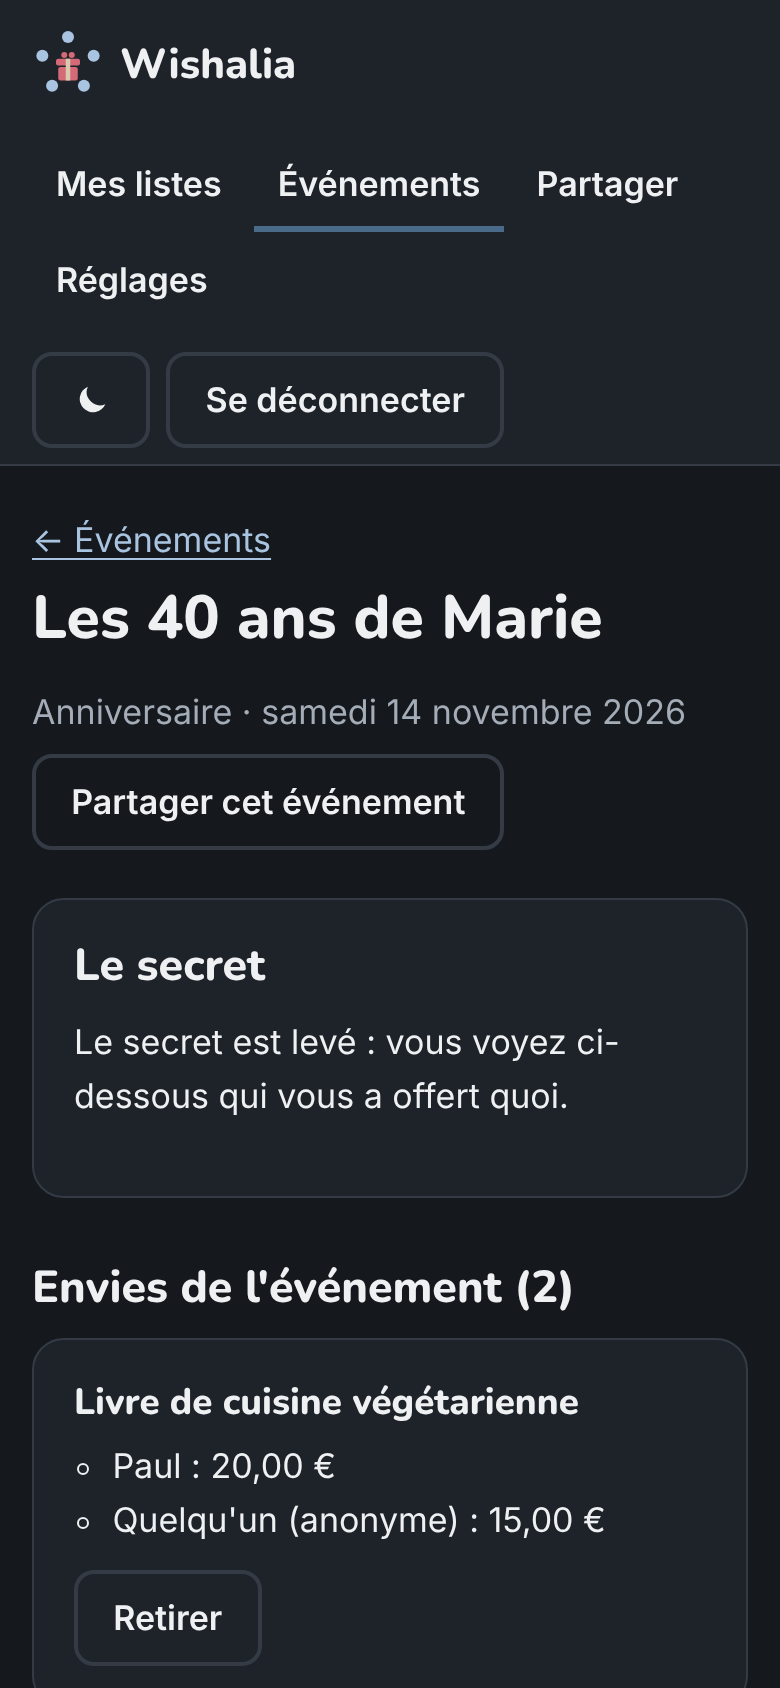
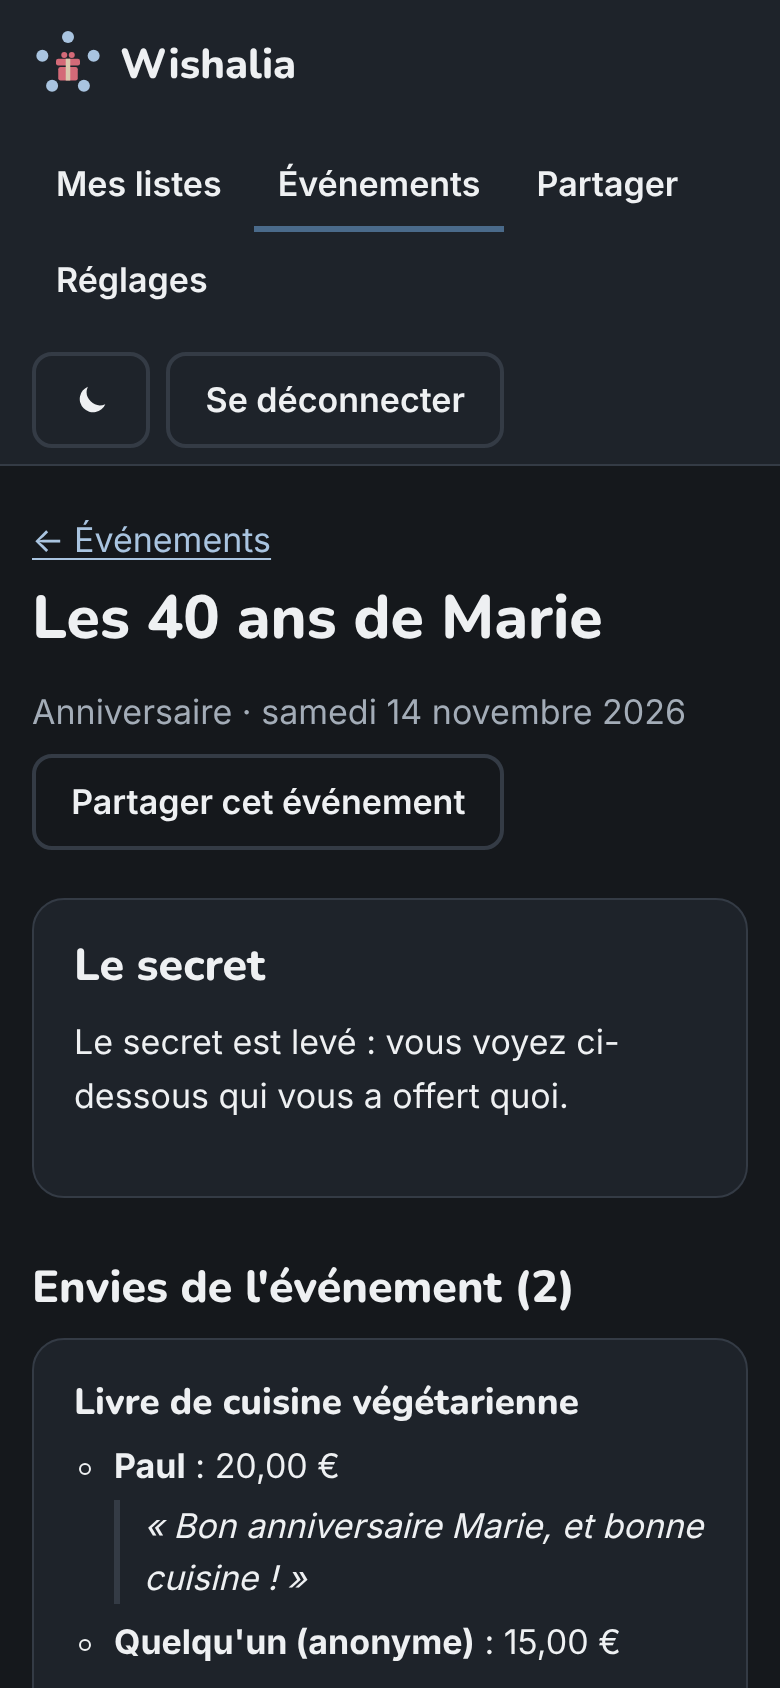
Show the owner the guests' words, and who gave what outside events
Claude-Session: https://claude.ai/code/session_01RHrAN1oDTApYYjwNuZHKXv

Changed region(s): [[0.0923, 0.8626, 0.8923, 0.9858], [0.6462, 0.955, 0.8, 0.9858]]

diff --git a/apps/web-app/src/routes/routes.test.ts b/apps/web-app/src/routes/routes.test.ts
@@ -248,8 +248,43 @@ describe("a list page", () => {
       list: list({ theme: "christmas" }),
       items: [{ id: ITEM }],
       lists: [list({ theme: "christmas" })],
+      gifts: {},
     });
     expect(event.locals.listTheme).toBe("christmas");
+  });
+
+  it("says who gave what outside events, only where the secret is lifted", async () => {
+    const RECEIVED = "9b6f8a4e-6a52-4a6c-9a39-6f4f3c0b9a11";
+    const gift = { id: 1, type: "reserved", at: "", actorId: null };
+    const api = fakeApi({
+      "GET /manage/lists": () => json([list({ revealMode: "received", secretLifted: false })]),
+      [`GET /manage/lists/${LIST}/items`]: () =>
+        json([
+          { id: ITEM, status: "open" },
+          { id: RECEIVED, status: "received" },
+        ]),
+      [`GET /manage/items/${RECEIVED}/history`]: () =>
+        json([
+          { ...gift, payload: { contributionId: "a", eventId: null, name: "Paul", message: "Merci !" } },
+        ]),
+    });
+    const { value } = (await run(listPage, fakeEvent({ params: { id: LIST } }).event)) as {
+      value: { gifts: Record<string, unknown> };
+    };
+    expect(value.gifts).toEqual({
+      [RECEIVED]: [{ name: "Paul", amountCents: null, units: null, message: "Merci !" }],
+    });
+    // The open item's history is never asked for: its secret holds
+    expect(api.calls.map((call) => call.path)).not.toContain(`/manage/items/${ITEM}/history`);
+
+    // A list whose secret the owner lifted: every item
+    const lifted = fakeApi({
+      "GET /manage/lists": () => json([list({ revealMode: "manual", secretLifted: true })]),
+      [`GET /manage/lists/${LIST}/items`]: () => json([{ id: ITEM, status: "open" }]),
+      [`GET /manage/items/${ITEM}/history`]: () => json([]),
+    });
+    await run(listPage, fakeEvent({ params: { id: LIST } }).event);
+    expect(lifted.calls.map((call) => call.path)).toContain(`/manage/items/${ITEM}/history`);
   });
 
   it("answers 404 for someone else's list or a wrong address", async () => {

diff --git a/apps/web-app/src/routes/(app)/evenements/[id]/+page.svelte b/apps/web-app/src/routes/(app)/evenements/[id]/+page.svelte
@@ -1,11 +1,11 @@
 <script lang="ts">
+  import Gifts from "#lib/Gifts.svelte";
   import { enhance } from "$app/forms";
   import { resolve } from "$app/paths";
   import { cents, formatAmount } from "@wishalia/domain";
 
   import EventFields from "#lib/EventFields.svelte";
   import { eventKindLabel, formatAvailable, formatDay } from "#lib/format.ts";
-  import type { Gift } from "#lib/types.ts";
 
   import type { PageProps } from "./$types";
 
@@ -26,16 +26,6 @@
   const typedValues = $derived(
     form?.update && "kind" in form.update ? (form.update as unknown as Values) : (event as Values),
   );
-
-  const describe = (gift: Gift) => {
-    const what =
-      gift.amountCents !== null
-        ? formatAmount(cents(gift.amountCents))
-        : gift.units !== null && gift.units > 1
-          ? `${gift.units} exemplaires`
-          : "l'a offert";
-    return `${gift.name ?? "Quelqu'un (anonyme)"} : ${what}`;
-  };
 
   const errors: Record<string, string> = {
     too_early: "Il est encore trop tôt pour lever le secret.",
@@ -111,15 +101,7 @@
             {#if item.priceCents !== null}<p class="muted meta">
                 {formatAmount(cents(item.priceCents))}
               </p>{/if}
-            {#if gifts}
-              {#if gifts.length === 0}
-                <p class="muted meta">Personne ne l'a offert pour cet événement.</p>
-              {:else}
-                <ul class="gifts">
-                  {#each gifts as gift, index (index)}<li>{describe(gift)}</li>{/each}
-                </ul>
-              {/if}
-            {/if}
+            {#if gifts}<Gifts {gifts} none="Personne ne l'a offert pour cet événement." />{/if}
           </div>
           <form method="POST" action="?/removeItem" use:enhance>
             <input type="hidden" name="itemId" value={item.id} />
@@ -242,10 +224,6 @@
   }
   .meta {
     margin: 0.25rem 0 0;
-  }
-  .gifts {
-    margin: 0.5rem 0 0;
-    padding-left: 1.2rem;
   }
   .settings {
     margin-top: 2rem;

diff --git a/apps/api/src/routes/public/public.test.ts b/apps/api/src/routes/public/public.test.ts
@@ -245,7 +245,7 @@ describe("contributions through a list link", () => {
 
   it("takes a contribution without an event: a list is not always tied to one", async () => {
     const made = await guest(listLink.body.token, "POST", `/items/${lonely}/contributions`, {
-      payload: { guestName: "Parrain" },
+      payload: { guestName: "Parrain", message: "Bon appétit" },
     });
     expect(made.status).toBe(201);
     expect(made.body.contribution.eventId).toBeNull();
@@ -365,6 +365,7 @@ describe("anti-spoil on the public view", () => {
     expect(before.items.find((entry: { id: string }) => entry.id === lonely).funding).toBeNull();
     const sealed = (await manage(owner, "GET", `/items/${lonely}/history`)).body as { type: string }[];
     expect(sealed.map((entry) => entry.type)).not.toContain("reserved");
+    expect(JSON.stringify(sealed)).not.toContain("Bon appétit");
 
     expect((await manage(owner, "PATCH", `/items/${lonely}`, { status: "received" })).status).toBe(200);
     const after = (await guest(listLink.body.token, "GET", "/view", { cookie: owner })).body;
@@ -373,9 +374,13 @@ describe("anti-spoil on the public view", () => {
     });
     const lifted = (await manage(owner, "GET", `/items/${lonely}/history`)).body as {
       type: string;
-      payload: { name?: string };
+      payload: { name?: string; message?: string | null };
     }[];
-    expect(lifted.find((entry) => entry.type === "reserved")?.payload.name).toBe("Parrain");
+    // The guest's word reaches the owner with the name, once the secret is lifted
+    expect(lifted.find((entry) => entry.type === "reserved")?.payload).toMatchObject({
+      name: "Parrain",
+      message: "Bon appétit",
+    });
     const late = await guest(listLink.body.token, "DELETE", `/contributions/${parrainKey.id}`, {
       headers: { "x-withdraw-key": parrainKey.key },
     });

diff --git a/apps/web-app/src/lib/server/events.ts b/apps/web-app/src/lib/server/events.ts
@@ -42,11 +42,11 @@ export async function readEventForm(event: FormEvent, key: "create" | "update") 
 }
 
 /**
- * Who gave what to an item for one event, from its history: the contributions and reservations
+ * Who gave what to an item for one event (or for none: null), from its history: the contributions and reservations
  * of that event, without the withdrawn ones. The API only gives these entries once the secret of
  * the event is lifted (anti-spoil): before, the list is empty.
  */
-export function giftsFor(history: readonly HistoryEntry[], eventId: string): Gift[] {
+export function giftsFor(history: readonly HistoryEntry[], eventId: string | null): Gift[] {
   const withdrawn = new Set(
     history
       .filter((entry) => entry.type === "contribution_withdrawn")
@@ -56,12 +56,13 @@ export function giftsFor(history: readonly HistoryEntry[], eventId: string): Gif
     .filter(
       (entry) =>
         (entry.type === "contribution_added" || entry.type === "reserved") &&
-        entry.payload.eventId === eventId &&
+        (entry.payload.eventId ?? null) === eventId &&
         !withdrawn.has(entry.payload.contributionId),
     )
     .map((entry) => ({
       name: typeof entry.payload.name === "string" ? entry.payload.name : null,
       amountCents: typeof entry.payload.amountCents === "number" ? entry.payload.amountCents : null,
       units: typeof entry.payload.units === "number" ? entry.payload.units : null,
+      message: typeof entry.payload.message === "string" ? entry.payload.message : null,
     }));
 }

diff --git a/apps/web-app/src/routes/(app)/listes/[id]/+page.server.ts b/apps/web-app/src/routes/(app)/listes/[id]/+page.server.ts
@@ -3,7 +3,8 @@ import { error } from "@sveltejs/kit";
 import { ApiError, apiJson } from "#lib/server/api.ts";
 import { editItem, quickAdd, setItemStatus } from "#lib/server/items.ts";
 import { archiveList, revealList, saveListSettings } from "#lib/server/lists.ts";
-import type { Item, List } from "#lib/types.ts";
+import { giftsFor } from "#lib/server/events.ts";
+import type { Gift, HistoryEntry, Item, List } from "#lib/types.ts";
 
 import type { Actions, PageServerLoad } from "./$types";
 
@@ -29,7 +30,18 @@ export const load: PageServerLoad = async (event) => {
   event.locals.listTheme = list.theme;
   // The lists an item can move to
   const others = lists.filter((candidate) => !candidate.archivedAt);
-  return { list, items, lists: others };
+
+  // Who gave what outside any event, where its secret is lifted: the whole list once the owner
+  // lifted it, or each received item (the default). The API gives nothing before (anti-spoil).
+  const lifted = items.filter((item) =>
+    list.revealMode === "manual" ? list.secretLifted : item.status === "received",
+  );
+  const histories = await Promise.all(
+    lifted.map((item) => apiJson<HistoryEntry[]>(event, `/manage/items/${item.id}/history`)),
+  );
+  const gifts: Record<string, Gift[]> = {};
+  lifted.forEach((item, index) => (gifts[item.id] = giftsFor(histories[index] ?? [], null)));
+  return { list, items, lists: others, gifts };
 };
 
 export const actions: Actions = {

diff --git a/apps/web-app/src/lib/server/events.test.ts b/apps/web-app/src/lib/server/events.test.ts
@@ -52,6 +52,7 @@ describe("giftsFor", () => {
             eventId: "e",
             amountCents: 2000,
             name: "Marie",
+            message: "Joyeux Noël !",
           }),
           entry("reserved", { contributionId: "b", eventId: "e", units: 2, name: null }),
           entry("contribution_added", {
@@ -66,9 +67,28 @@ describe("giftsFor", () => {
         "e",
       ),
     ).toEqual([
-      { name: "Marie", amountCents: 2000, units: null },
-      { name: null, amountCents: null, units: 2 },
+      { name: "Marie", amountCents: 2000, units: null, message: "Joyeux Noël !" },
+      { name: null, amountCents: null, units: 2, message: null },
     ]);
+  });
+
+  it("keeps the gifts made without an event apart", () => {
+    const history = [
+      entry("reserved", {
+        contributionId: "a",
+        eventId: null,
+        units: null,
+        name: "Paul",
+        message: "Bon appétit",
+      }),
+      entry("reserved", { contributionId: "b", units: 1, name: "Jo" }),
+      entry("reserved", { contributionId: "c", eventId: "e", name: "Léo" }),
+    ];
+    expect(giftsFor(history, null).map((gift) => [gift.name, gift.message])).toEqual([
+      ["Paul", "Bon appétit"],
+      ["Jo", null],
+    ]);
+    expect(giftsFor(history, "e").map((gift) => gift.name)).toEqual(["Léo"]);
   });
 });
 

diff --git a/apps/web-app/src/lib/Gifts.svelte b/apps/web-app/src/lib/Gifts.svelte
@@ -1,0 +1,49 @@
+<script lang="ts">
+  import { cents, formatAmount } from "@wishalia/domain";
+
+  import type { Gift } from "./types.ts";
+
+  /** Who gave what, and the words they left: only ever given once the secret is lifted. */
+  let { gifts, none }: { gifts: Gift[]; none: string } = $props();
+
+  const what = (gift: Gift) =>
+    gift.amountCents !== null
+      ? formatAmount(cents(gift.amountCents))
+      : gift.units !== null && gift.units > 1
+        ? `${gift.units} exemplaires`
+        : "l'a offert";
+</script>
+
+{#if gifts.length === 0}
+  <p class="muted none">{none}</p>
+{:else}
+  <ul class="gifts">
+    {#each gifts as gift, index (index)}
+      <li>
+        <span><strong>{gift.name ?? "Quelqu'un (anonyme)"}</strong> : {what(gift)}</span>
+        {#if gift.message}<blockquote>« {gift.message} »</blockquote>{/if}
+      </li>
+    {/each}
+  </ul>
+{/if}
+
+<style>
+  .none {
+    margin: 0.25rem 0 0;
+  }
+  .gifts {
+    margin: 0.5rem 0 0;
+    padding-left: 1.25rem;
+  }
+  li + li {
+    margin-top: 0.35rem;
+  }
+  blockquote {
+    margin: 0.2rem 0 0;
+    padding-left: 0.75rem;
+    border-left: 3px solid var(--border);
+    font-style: italic;
+    white-space: pre-line;
+    overflow-wrap: anywhere;
+  }
+</style>

diff --git a/apps/web-app/src/routes/(app)/listes/[id]/+page.svelte b/apps/web-app/src/routes/(app)/listes/[id]/+page.svelte
@@ -3,6 +3,7 @@
   import { resolve } from "$app/paths";
   import { cents, formatAmount } from "@wishalia/domain";
 
+  import Gifts from "#lib/Gifts.svelte";
   import ItemEditor from "#lib/ItemEditor.svelte";
   import ListSettings from "#lib/ListSettings.svelte";
   import QuickAdd from "#lib/QuickAdd.svelte";
@@ -85,6 +86,7 @@
               {/if}
             </p>
             {#if item.notes}<p class="notes">{item.notes}</p>{/if}
+            {#if data.gifts[item.id]?.length}<Gifts gifts={data.gifts[item.id] ?? []} none="" />{/if}
           </div>
           <div class="actions">
             <form method="POST" action="?/status" use:enhance>
@@ -122,6 +124,12 @@
           <div class="text">
             <h3>{item.title}</h3>
             <p class="muted meta">{item.status === "received" ? "Reçu" : "Archivé"}</p>
+            {#if data.gifts[item.id]}
+              <Gifts
+                gifts={data.gifts[item.id] ?? []}
+                none="Personne ne l'a offert en dehors des événements."
+              />
+            {/if}
           </div>
           <form method="POST" action="?/status" use:enhance class="actions">
             <input type="hidden" name="itemId" value={item.id} />

diff --git a/apps/api/src/routes/public/contributions.ts b/apps/api/src/routes/public/contributions.ts
@@ -137,6 +137,8 @@ export const contributionRoutes: FastifyPluginAsync<{ db: Database; now: () => D
             amountCents: row.amountCents,
             units: row.units,
             name: row.anonymous ? null : (sessionUser?.displayName ?? row.guestName),
+            // The word for the owner (« À lire après l'occasion »): read once the secret is lifted
+            message: row.message,
           },
           // Shown to the guests, and to the owner once the secret of the event is lifted
           visibility: "sealed",

diff --git a/apps/web-app/src/lib/types.ts b/apps/web-app/src/lib/types.ts
@@ -77,6 +77,8 @@ export interface Gift {
   name: string | null;
   amountCents: number | null;
   units: number | null;
+  /** The word the guest left for the owner. */
+  message: string | null;
 }
 
 export interface ShareLink {

diff --git a/docs/management-app.md b/docs/management-app.md
@@ -98,8 +98,12 @@ An event's page shows:
 
 Once the secret is lifted, each item shows who gave what for this event: the amount of each
 contribution, or the reservation, under the name the guest gave (« Quelqu'un (anonyme) » when they
-chose to stay anonymous). Before, the API gives nothing of it: the page cannot show what the owner
-must not see.
+chose to stay anonymous), with the word they left for the owner, if any. Before, the API gives
+nothing of it: the page cannot show what the owner must not see.
+
+The gifts made without an event show the same way on the list's page, under each item, once their
+secret lifts: when the item is marked received, or when the list's secret is lifted in « Quand je le
+décide » mode.
 
 ![Who gave what, once the secret is lifted](images/app-event-lifted-dark.png)
 

diff --git a/docs/api.md b/docs/api.md
@@ -11,7 +11,9 @@ exactly like a missing one, so that ids cannot be probed.
 
 **Anti-spoil:** no response of `/manage` carries contribution data, ever. Items are serialised field
 by field, never from a raw row. The history shows the contributions of an event only once its
-secret is lifted (`canSeeHistoryEntry` in `@wishalia/domain`).
+secret is lifted (`canSeeHistoryEntry` in `@wishalia/domain`). Once it is, a contribution's entry
+gives the amount or the copies, the guest's name (`null` when anonymous) and their word for the
+owner (`message`, « À lire après l'occasion », `null` when none).
 
 ## Errors
 
